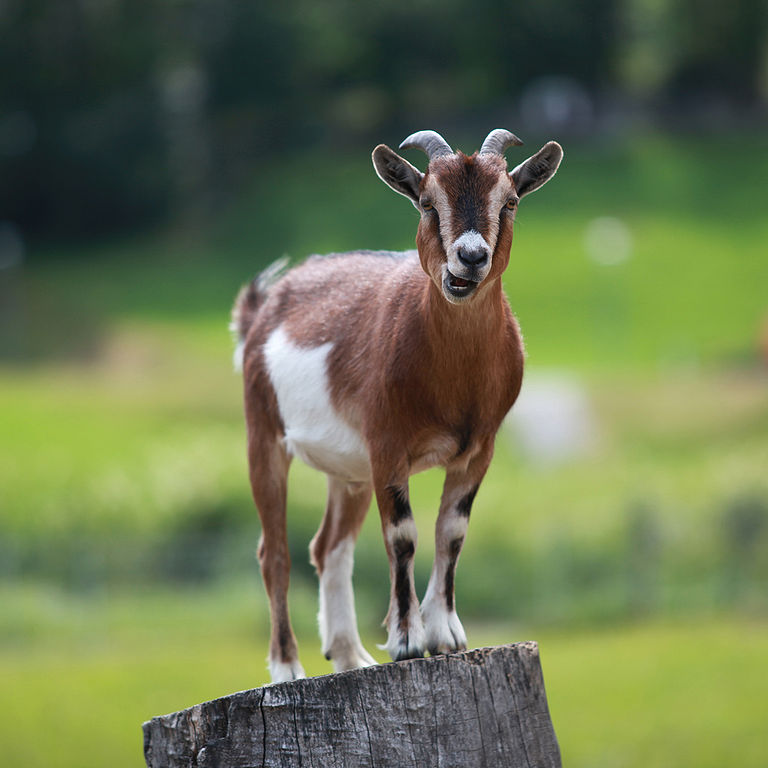
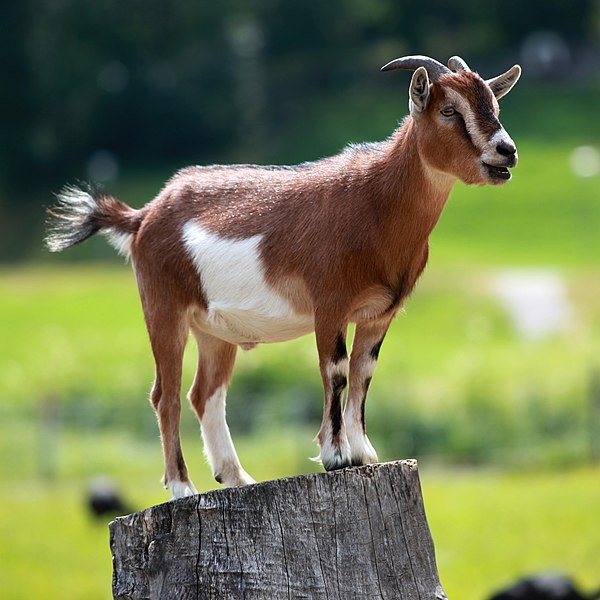
std img size + better CSS

diff --git a/404.html b/404.html
@@ -1,39 +1,50 @@
 <!DOCTYPE html>
 <html lang="fr-ca">
-<head>
-<meta charset="utf-8" />
-<title>Club Capra - 404</title>
-<style type="text/css">
-body { font-family: Verdana, Geneva, Tahoma, sans-serif; font-style: normal; font-weight: 300;}
-h1 { font-size:2em; }
-h2 { font-size:1.2em; }
-a:link { color:#33c; } 
-a:visited { color:#339; }
-p { max-width: 80vw; }
+  <head>
+    <meta charset="utf-8" />
+    <title>Club Capra - 404</title>
+    <script type="text/javascript">
+      // place your images in this array
+      var random_images_array = [
+        "goat_1.jpg",
+        "goat_2.jpg",
+        "goat_3.jpg",
+        "goat_4.jpg",
+        "goat_5.jpg",
+        "goat_6.jpg",
+        "goat_7.jpg",
+      ];
 
-/* so linked image won't have border */
-a img { border:none; }
-</style>
-<script type="text/javascript">
-// place your images in this array
-var random_images_array = ['goat_1.webp', 'goat_2.jpg', 'goat_3.jpeg', 'goat_4.jpg', 'goat_5.png'];
-    
-function getRandomImage(imgAr, path) {
-    path = path || 'assets/media/goats/'; // default path here
-    var num = Math.floor( Math.random() * imgAr.length );
-    var img = imgAr[ num ];
-    var imgStr = '<img src="' + path + img + '" alt = "">';
-    document.write(imgStr); document.close();
-}
-</script>
-</head>
-<body>
-    
-<h1>Oups, on dirait bien que la page est introuvable...</h1>
+      function getRandomImage(imgAr, path) {
+        path = path || "assets/media/goats/"; // default path here
+        var num = Math.floor(Math.random() * imgAr.length);
+        var img = imgAr[num];
+        var imgStr = '<img src="' + path + img + '" alt = "¯\_(ツ)_/¯">';
+        document.write(imgStr);
+        document.close();
+      }
+    </script>
 
-<!--- <p>Voici une chèvre pour vous redonner le moral</p> --->
+    <link
+      rel="stylesheet"
+      type="text/css"
+      media="screen"
+      href="assets/404.css"
+    />
+  </head>
+  <body>
+    <h1>Oups, on dirait bien que la page est introuvable...</h1>
+
+    <!--- <p>Voici une chèvre pour vous redonner le moral</p> --->
     <!-- This script segment displays an image from the array -->
-    <script type="text/javascript">getRandomImage(random_images_array)</script>
-    <h2><a href="https://www.clubcapra.com">Retour à l'accueil</a></h2>
-</body>
+    <div class="image">
+      <script type="text/javascript">
+        getRandomImage(random_images_array);
+      </script>
+    </div>
+    <br />
+    <a href="http://clubcapra.com" class="partner-button">
+      Retour à l'accueil</a
+    >
+  </body>
 </html>

diff --git a/assets/404.css b/assets/404.css
@@ -1,0 +1,70 @@
+/* Copyright (c) 2019 Club RockÉTS (MIT License) */
+
+/*******************************************************************************
+*                                   IMPORTS                                    *
+*******************************************************************************/
+@import url("https://fonts.googleapis.com/css?family=Raleway:400,800");
+
+@font-face {
+  font-family: "Moon";
+  src: url("fonts/moon_light.otf");
+}
+
+@font-face {
+  font-family: "Euphemia";
+  src: url("fonts/euphemia.ttf");
+}
+
+/*******************************************************************************
+*                                    GLOBAL                                    *
+*******************************************************************************/
+html,
+body {
+  font-family: "Raleway", sans-serif;
+  font-size: 100%;
+  max-height: 100%;
+  line-height: 1;
+  padding: 0;
+  margin: 0 auto;
+  background-color: white;
+}
+
+h1 {
+  font-size: 3em;
+  font-weight: normal;
+  color: #c62d1f;
+  text-align: center;
+}
+
+.image {
+  display: block;
+  margin: 0 auto;
+  width: max-content;
+  width: fit-content;
+  max-width: 100%;
+  padding: 10px auto;
+}
+
+.partner-button {
+  background-color: #c62d1f;
+  border-radius: 42px;
+  display: block;
+  cursor: pointer;
+  color: #ffffff;
+  font-family: Arial;
+  font-size: 18px;
+  font-weight: bold;
+  padding: 15px 40px;
+  text-decoration: none;
+  margin-left: 30%;
+  margin-right: 30%;
+  margin-bottom: 0;
+  text-align: center;
+}
+.partner-button:hover {
+  background-color: #e0002d;
+}
+.partner-button:active {
+  position: relative;
+  top: 1px;
+}
